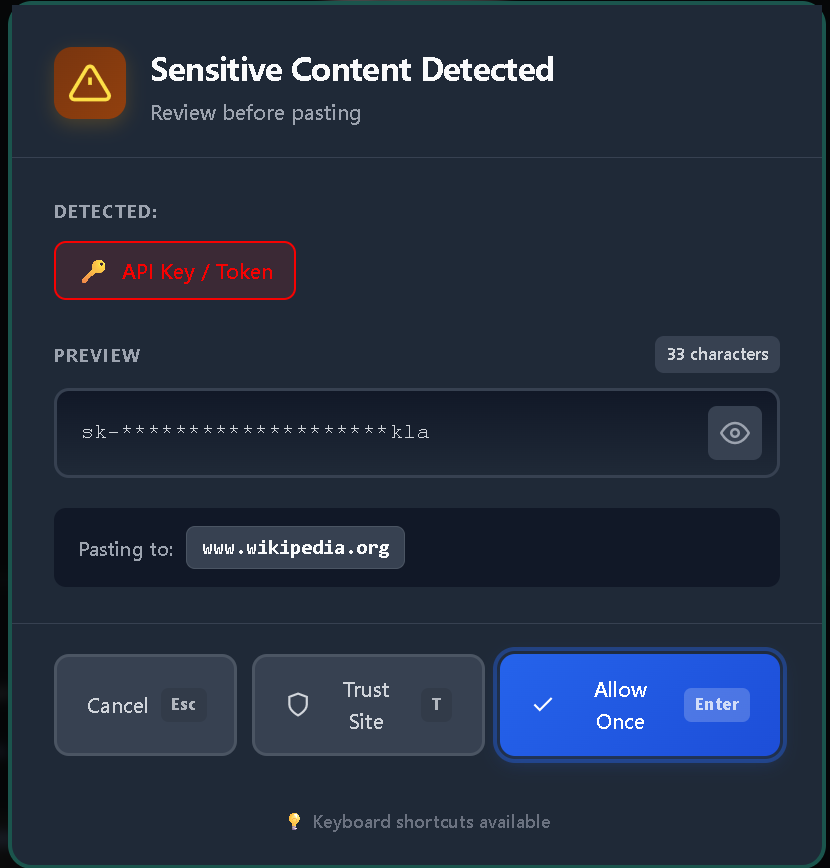
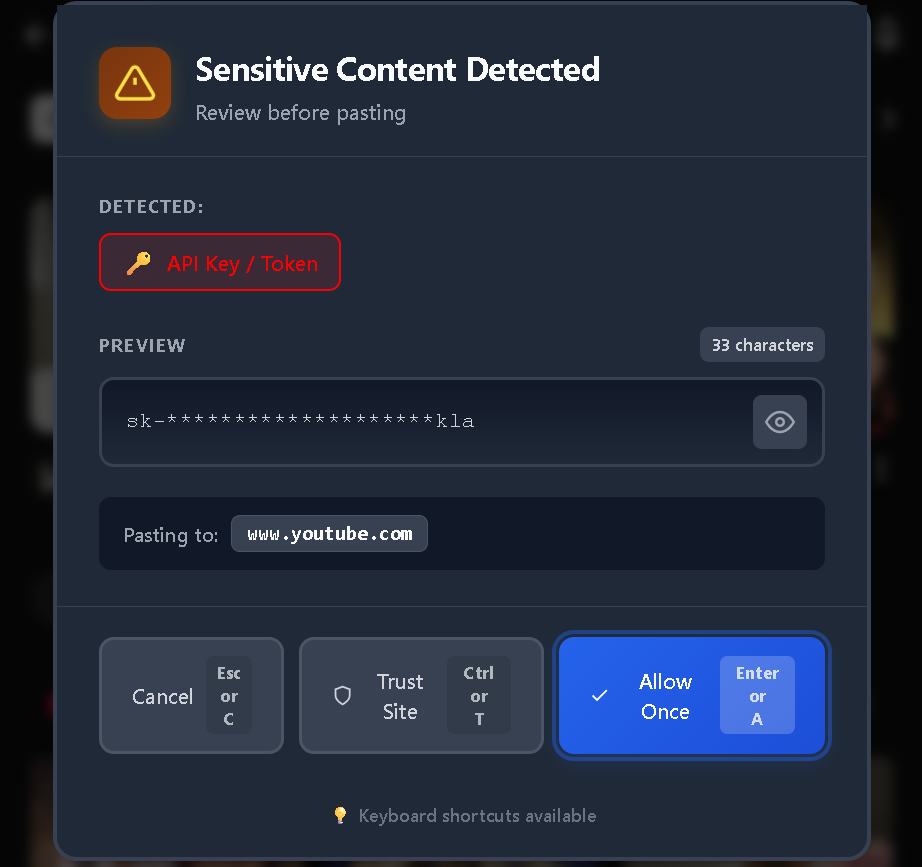
Fixed the issue related to  pasted content being lost if extension didn't work for some reason + some UI and preview tweaks

Changed region(s): [[0.0, 0.0, 1.0, 1.0], [0.0904, 0.5917, 0.512, 0.654], [0.2108, 0.8097, 0.241, 0.8408]]

diff --git a/content/content.js b/content/content.js
@@ -310,21 +310,21 @@ function showWarningModal(detections, pasteText) {
       <div class="pasteshield-actions">
         <button id="pasteshield-cancel" class="pasteshield-btn pasteshield-btn-secondary">
           <span>Cancel</span>
-          <span class="pasteshield-shortcut">Esc</span>
+          <span class="pasteshield-shortcut">Esc or<br>C</span>
         </button>
         <button id="pasteshield-trust" class="pasteshield-btn pasteshield-btn-secondary">
           <svg class="pasteshield-btn-icon" viewBox="0 0 24 24" fill="none" stroke="currentColor" stroke-width="2">
             <path d="M12 22s8-4 8-10V5l-8-3-8 3v7c0 6 8 10 8 10z"></path>
           </svg>
           <span>Trust Site</span>
-          <span class="pasteshield-shortcut">T</span>
+          <span class="pasteshield-shortcut">Ctrl or<br>T</span>
         </button>
         <button id="pasteshield-allow" class="pasteshield-btn pasteshield-btn-primary">
           <svg class="pasteshield-btn-icon" viewBox="0 0 24 24" fill="none" stroke="currentColor" stroke-width="2">
             <polyline points="20 6 9 17 4 12"></polyline>
           </svg>
           <span>Allow Once</span>
-          <span class="pasteshield-shortcut">Enter</span>
+          <span class="pasteshield-shortcut">Enter or<br>A</span>
         </button>
       </div>
       
@@ -385,7 +385,7 @@ function showWarningModal(detections, pasteText) {
             allowOnce();
 
         // - T to trust site
-        } else if (key === 't') {
+        } else if (key=== 'control' || key === 't') {
             e.preventDefault();
             e.stopPropagation();
             trustSite();
@@ -450,7 +450,7 @@ function showWarningModal(detections, pasteText) {
 }
 
 // For contenteditable (HTML element), we can use document.execCommand to insert text at the cursor position, which ensures that the paste behaves as expected in rich text editors and other contenteditable areas.
-function executePaste() {
+function executePaste() { 
     if (!pendingPasteData || !pendingPasteEvent) return;
 
     const target = pendingPasteEvent.target;
@@ -490,26 +490,57 @@ document.addEventListener('paste', (e) => {
     }
 
     const detections = detectSensitiveData(pastedText);
+    if (detections.length === 0) return;
 
-    if (detections.length > 0) {
-        // Prevent the default paste
-        e.preventDefault();
-        e.stopPropagation();
+    
+    // Prevent the default paste
+    e.preventDefault();
+    e.stopPropagation();
 
-        // Store the pending paste data
-        pendingPasteData = pastedText;
-        pendingPasteEvent = e;
+    
+    try{
+      pendingPasteData = pastedText;
+      pendingPasteEvent = e;
 
-        // To increase the counter in rt
-        chrome.runtime.sendMessage({ action: 'incrementCounter' }, (response) => {
-            if (response && response.count) {
-                console.log("PasteShield: Blocked paste #" + response.count + "today");
+      if (typeof chrome !== "undefined" && chrome.runtime.id){
+        chrome.runtime.sendMessage(
+          {action: "incrementCounter"}, (response) => {
+            if (chrome.runtime.lastError) return;
+            if (response?.count !== undefined){
+              console.log(`PasteShield: Blocked paste #${response.count} today`);
             }
-        });
+          }
+        );
+      }
+      // Show the warning modal with detected types and masked preview
+      showWarningModal(detections, pastedText);
+    } catch (err) {
 
-        // Show the warning modal
-        showWarningModal(detections, pastedText);
+      pendingPasteData = null;
+      pendingPasteEvent = null;
+
+      try{
+        const target = e.target;
+
+        if (target?.isContentEditable){
+          document.execCommand('insertText', false, pastedText);
+        } else if(
+          target?.tagName === "INPUT" || target?.tagName === "TEXTAREA"
+        ) {
+          const start = target.selectionStart;
+          const end = target.selectionEnd;
+          const value = target.value;
+
+          target.value = value.substring(0, start) + pastedText + value.substring(end);
+          target.selectionStart = target.selectionEnd = start + pastedText.length;
+
+          target.dispatchEvent(new Event("input", {bubbles: true}));
+        }
+      } catch{
+        // We catch any errors that might occur during the paste execution to prevent the extension from breaking the user experience.
+      }
     }
+    
 }, true);
 
 chrome.storage.local.get(['protectionSettings'], (result) => {
@@ -521,6 +552,6 @@ chrome.storage.local.get(['protectionSettings'], (result) => {
 chrome.storage.onChanged.addListener((changes, area) => {
     if (area === 'local' && changes.protectionSettings) {
         window.pasteShieldSettings = changes.protectionSettings.newValue;
-        console.log('PasteShield: Protection settings updated', window.pasteshieldSettings)
+        console.log('PasteShield: Protection settings updated', window.pasteShieldSettings)
     }
 });

diff --git a/popup.html b/popup.html
@@ -44,15 +44,6 @@
         <label class="toggle-item">
           <div class="toggle-info">
             <span class="toggle-icon">🔑</span>
-            <span class="toggle-label">Passwords</span>
-          </div>
-          <input type="checkbox" id="toggle-passwords" class="toggle-checkbox">
-          <span class="toggle-switch"></span>
-        </label>
-
-        <label class="toggle-item">
-          <div class="toggle-info">
-            <span class="toggle-icon">🔐</span>
             <span class="toggle-label">API Keys & Tokens</span>
           </div>
           <input type="checkbox" id="toggle-apiKeys" class="toggle-checkbox">
@@ -61,10 +52,19 @@
 
         <label class="toggle-item">
           <div class="toggle-info">
-            <span class="toggle-icon">📧</span>
-            <span class="toggle-label">Email Addresses</span>
+            <span class="toggle-icon">💳</span>
+            <span class="toggle-label">Credit Cards</span>
           </div>
-          <input type="checkbox" id="toggle-emails" class="toggle-checkbox">
+          <input type="checkbox" id="toggle-creditCards" class="toggle-checkbox">
+          <span class="toggle-switch"></span>
+        </label>
+
+        <label class="toggle-item">
+          <div class="toggle-info">
+            <span class="toggle-icon">🔐</span>
+            <span class="toggle-label">Passwords</span>
+          </div>
+          <input type="checkbox" id="toggle-passwords" class="toggle-checkbox">
           <span class="toggle-switch"></span>
         </label>
 
@@ -79,12 +79,13 @@
 
         <label class="toggle-item">
           <div class="toggle-info">
-            <span class="toggle-icon">💳</span>
-            <span class="toggle-label">Credit Cards</span>
+            <span class="toggle-icon">📧</span>
+            <span class="toggle-label">Email Addresses</span>
           </div>
-          <input type="checkbox" id="toggle-creditCards" class="toggle-checkbox">
+          <input type="checkbox" id="toggle-emails" class="toggle-checkbox">
           <span class="toggle-switch"></span>
         </label>
+
       </div>
     </div>
 

diff --git a/popup.css b/popup.css
@@ -176,6 +176,7 @@ body {
 }
 
 .settings-section h2 {
+    font-family: "Arial";
     font-size: 14px;
     font-weight: 600;
     color: #374151;
@@ -291,7 +292,7 @@ body {
     }
 
     .settings-hint {
-        color: #6b7280;
+        color: #b2b8c3;
     }
 
     .toggle-item {
@@ -320,7 +321,8 @@ body {
 }
 
 .trusted-section {
-    background: rgb(255, 255, 255);
+    background: #1f2937;
+    border-color: #374151;
     padding: 16px;
     border-radius: 10px;
     margin-bottom: 16px;
@@ -338,7 +340,7 @@ body {
     font-size: 14px;
     font-weight: 600;
     font-family: sans-serif;
-    color: #374151;
+    color: #ffffff;
 }
 
 .badge {

diff --git a/popup.js b/popup.js
@@ -63,7 +63,7 @@ function displayTrustedSites(sites) {
 
             siteItem.innerHTML = `
         <span class="site-name" title="${site}">${site}</span>
-        <button class="remove-btn" data-site="${site}" title="Remove this site">
+        <button class="remove-btn" data-site="${site}" title="Untrust this site">
           <svg viewBox="0 0 24 24" fill="none" stroke="currentColor" stroke-width="2">
             <line x1="18" y1="6" x2="6" y2="18"></line>
             <line x1="6" y1="6" x2="18" y2="18"></line>

diff --git a/README.md b/README.md
@@ -26,7 +26,8 @@ So this extension just **pauses the paste**, warns you, and lets *you* decide.
 ```
 PasteShield
 ├── background.js
-├── content.js
+├── content
+│   └── content.js
 ├── icons
 │   ├── icon128.png
 │   ├── icon16.png
@@ -63,24 +64,33 @@ If nothing risky is found, *PasteShield* lets the paste go through normally.
 If something sensitive is detected, it stops the paste and shows a warning.
 
 ## Previews
-![Paste Warning](PasteShield/Previews/03_Warning.png)
-![Popup](PasteShield/Previews/01_popup.png)
-![Trusted Sites](PasteShield/Previews/02_Trusted_sites.png)
-![Normal Paste Initial](PasteShield/Previews/04_Normal_paste.png)
-![Normal Paste After](PasteShield/Previews/05_Normal_paste.png)
+
+<img src="https://github.com/thecybro/PasteShield/blob/main/Previews/01_popup.png" alt="PasteShield Popup">
+
+<img src="https://github.com/thecybro/PasteShield/blob/main/Previews/02_Trusted_sites.png" alt="PasteShield Popup-Trusted sites">
+
+<img src="https://github.com/thecybro/PasteShield/blob/main/Previews/03_Warning.png" alt="PasteShield Warning">
+
+<img src="https://github.com/thecybro/PasteShield/blob/main/Previews/04_Normal_paste.png" alt="PasteShield Normal Paste: before">
+
+<img src="https://github.com/thecybro/PasteShield/blob/main/Previews/05_Normal_paste.png" alt="PasteShield Normal Paste: after">
 
 ## What happens when it warns you
 
 You'll see a small popup with 3 options:
 
-- **Allow once**  
-  Paste it this time only.
-  
-- **Trust site**  
-  Paste it and don’t warn me again on this website.
-  
 - **Cancel**  
+  - **Shortcut:** *Esc* or *C* 
   Don’t paste anything.
+
+- **Trust site**  
+  - **Shortcut:** *Ctrl* or *T*
+  Paste it and don’t warn me again on this website.
+
+- **Allow once**  
+  - **Shortcut:** *Enter* or *A*
+  Paste it this time only.
+
 
 **You can also select options using the shortcut keys shown in the popup.**  
 That’s it.
@@ -100,7 +110,7 @@ After clearing, all sites will warn again.
 
 Will be available on the Chrome Web Store soon.
 
-<!--
+
 ### Manual installation (for now):
 
 1. Download or clone this repository
@@ -108,7 +118,7 @@ Will be available on the Chrome Web Store soon.
 3. Turn on **Developer mode** (top right)
 4. Click **Load unpacked**
 5. Select the `PasteShield` folder
--->
+
 
 ## Privacy
 
